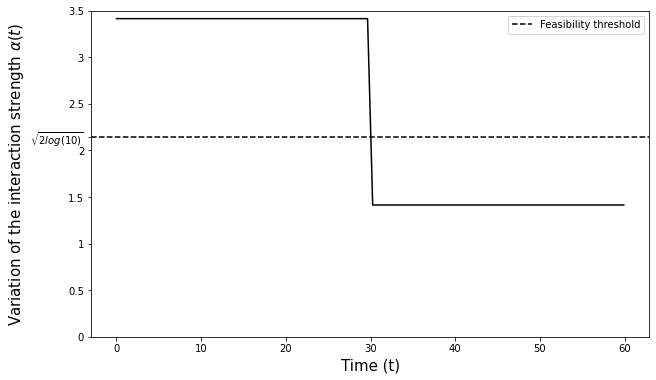
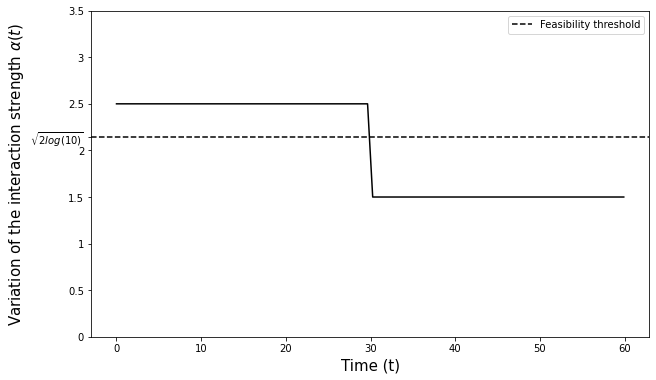
Update

diff --git a/Code/functions.py b/Code/functions.py
@@ -361,7 +361,7 @@ def empirical_prop(B_size=200, alpha=2, mu=0, mc_prec=100):
     return np.mean(S_p), np.mean(S_m), np.mean(S_sigma)
 
 
-def alpha_abrupt(t, intensity=1):
+def alpha_abrupt(t, intensity=0.5):
     """
     Correspond to the function alpha(t) of the sudden incident.
 
@@ -379,9 +379,9 @@ def alpha_abrupt(t, intensity=1):
 
     """
     if int(t/30) % 2 != 0:
-        return np.sqrt(2)
+        return 1.5
 
-    return np.sqrt(2)+2*intensity
+    return 1.5+2*intensity
 
 
 def f_LV_alpha(x, A, alpha, mu):
